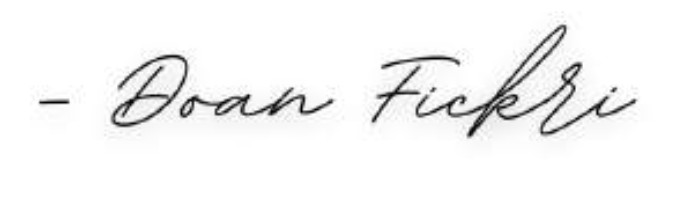
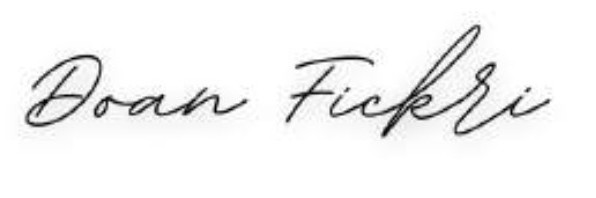
add new

Changed region(s): [[0.0302, 0.1212, 0.9362, 0.697]]

diff --git a/src/components/home/homeFitur.vue b/src/components/home/homeFitur.vue
@@ -1,12 +1,67 @@
 <template>
-  <div class="homefitur">
+  <div class="homefitur" id="karakter">
     <div class="container">
       <div class="row">
         <div class="col">
-          <h1 class="text-h4 text-weight-bold text-center">Karakter</h1>
+          <h1 class="text-h4 text-weight-bold text-center">Karakter Utama</h1>
         </div>
       </div>
       <div class="row">
+        <div class="col">
+          <div class="row">
+            <div class="col-4 q-pr-md">
+              <q-img src="/image/julfikar.webp" :ratio="1" class="shadow-6" />
+            </div>
+            <div class="col">
+              <h3 class="text-weight-medium text-h5 q-mt-none">
+                Putra Sopandi
+              </h3>
+              <p>Lelaki berumur 25 tahun yang berprofesi sebagai driver online, berperan sebagai tulang punggung keluarga setelah ditinggal ayahnya.</p>
+            </div>
+          </div>
+          <div class="row">
+            <div class="col-12">
+              <h3 class="text-weight-medium text-h5">Cast: Julfikar Maha Putra</h3>
+              <p>Aktor & Acting coach asal Bogor. Pernah terlibat di proyek musikal, video musik, film pendek dan feature film. Saat ini aktif sebagai asisten dosen di SAE indonesia</p>
+              <h3 class="text-weight-medium text-h5">Filmography</h3>
+              <p>Noda Ranjang Membekas - Flip Flop TV<br>
+                Kuburan Berjalan - Kumparan Plus<br>
+                Yok Shooting yok! - Table Two film<br>
+                What It Takes to Get a Shot - Mondiblanc Film Workshop<br>
+                Dan Bahagia - Hore besok libur<br>
+                Cinta yang berkah -Baznas TV<br>
+                Kuyang - Aenigma</p>
+            </div>
+          </div>
+        </div>
+        <div class="col">
+          <div class="row">
+            <div class="col-4 q-pr-md">
+              <q-img src="/image/agung.jpg" :ratio="1" class="shadow-6" />
+            </div>
+            <div class="col">
+              <h3 class="text-weight-medium text-h5 q-mt-none">
+                Agung Sopandi
+              </h3>
+              <p>Lelaki berumur 48 tahun yang berpura-pura mati untuk menghindar dari hutang, tanpa sadar keputusannya berdampak besar bagi keluarganya.</p>
+            </div>
+          </div>
+          <div class="row">
+            <div class="col-12">
+              <h3 class="text-weight-medium text-h5">Cast: Albaransyah Yusuf</h3>
+              <p>Berprofesi sebagai aktor sejak 2017, memerankan berbagai karakter di teater, film pendek dan series.</p>
+              <h3 class="text-weight-medium text-h5">Filmography</h3>
+              <p>Jurnal Risa (Series) - 2022<br>
+                Accidentally Intentional - 2022<br>
+                Coblos Yang Mana - 2022<br>
+                Resep Kebahagiaan - 2023<br>
+                Tanggal Selamat Tinggal - 2023
+              </p>
+            </div>
+          </div>
+        </div>
+      </div>
+      <!-- <div class="row">
         <div class="col-5 q-pa-md">
           <q-img src="/image/fizal.jpg" :ratio="1" class="shadow-6" />
         </div>
@@ -41,7 +96,7 @@
               Cinta yang berkah -Baznas TV<br>
               Kuyang - Aenigma</p>
         </div>
-      </div>
+      </div> -->
     </div>
   </div>
 </template>

diff --git a/src/components/home/homeReinforcement.vue b/src/components/home/homeReinforcement.vue
@@ -1,22 +1,22 @@
 <template>
-  <div class="homereinforcement">
+  <div class="homereinforcement" id="sutradara">
     <div class="container q-pt-lg">
-    <div class="cta text-center">
+    <div class="cta text-center q-pt-lg">
       <h1 class="text-weight-bold text-h1">Pernyataan Sutradara </h1>
     </div>
     <div class="row">
-      <div class="col">
+      <div class="col q-px-lg">
         <p>“Demi kamu, demi kalian, demi anak-anak, demi istri, demi keluarga”</p>
         <p>Dalam konteks yang serius, kata-kata ini jarang terucapkan oleh seorang ayah. Namun seringkali seorang anak merabanya melewati indikasi-indikasi dari setiap keputusan-keputusan yang mereka buat. Dalam semua keputusan yang diambil, kita selalui dihantui oleh pertanyaan “kenapa dia mengambil pilihan itu?”. Saya tidak pernah menemukan jawaban kongkritnya.</p>
           <p>Dalam proses pembuatan film ini, saya berusaha untuk menyelami ketidakharmonisan komunikasi antara dua generasi dalam satu keluarga yang sering kali terjadi.</p>
           <p>Saya ingin menunjukkan bahwa di balik setiap kata hal tidak diucapkan dan setiap kesalahpahaman, terdapat kerinduan mendalam untuk saling memahami dan dan keinginan untuk terhubung kembali.</p>
-          <p><q-img src="/public/image/statement.jpg" width="200px"/></p>
+          <p><q-img src="/image/statement.jpg" width="200px"/></p>
         <!-- <q-btn size="lg" color="dark" class="text-capitalize" to="/"
           >Baca Selengkapnya</q-btn
         >
  -->
       </div>
-      <div class="col">
+      <div class="col q-px-lg">
         <p>“Fatherless” adalah upaya saya untuk mewakili begitu banyak
         kawan dan kerabat yang mengalami masalah dengan Ayah dari
         sudut pandang anak laki - laki. Sebagai sutradara saya ingin
@@ -37,7 +37,7 @@
         menjadi lebih terbuka kepada keluarga kita.
       </p>
 
-          <p><q-img src="/public/image/mozes.webp" width="200px"/></p>
+          <p><q-img src="/image/mozes.webp" width="200px"/></p>
         <!-- <q-btn size="lg" color="dark" class="text-capitalize" to="/"
           >Baca Selengkapnya</q-btn
         > -->

diff --git a/src/components/master/globalHeader.vue b/src/components/master/globalHeader.vue
@@ -28,19 +28,19 @@
                 exact
                 class="text-capitalize"
                 label="Sinopsis"
-                to="/"
+                href="#sinopsis"
               />
               <q-route-tab
                 exact
                 class="text-capitalize"
-                label="Cast"
-                to="/"
+                label="Karakter"
+                href="#karakter"
               />
               <q-route-tab
                 exact
                 class="text-capitalize"
                 label="Pernyataan Sutradara"
-                to="/"
+                href="#sutradara"
               />
               <q-route-tab
                 exact

diff --git a/src/css/app.scss b/src/css/app.scss
@@ -1,7 +1,10 @@
 // app global css in SCSS form
 
+@import url('https://fonts.googleapis.com/css2?family=Puritan:ital,wght@0,400;0,700;1,400;1,700&display=swap');
+
 * {
-  font-family: "Lato", sans-serif;
+  font-family: "Puritan", sans-serif;
+
 }
 .content p {
   font-size: 18px;
@@ -75,10 +78,6 @@
   filter:none;
 }
 
-.homefitur {
-  max-width: 900px;
-  margin: 0 auto 0;
-}
 
 .homefitur p {
   font-size: 18px;
@@ -98,6 +97,10 @@
   margin: 0 auto 0;
   padding: 100px 0 30px;
 
+}
+
+.hometentang p {
+  text-align: justify;
 }
 
 .homereinforcement {

diff --git a/src/components/home/homeHero.vue b/src/components/home/homeHero.vue
@@ -7,7 +7,7 @@
       <p class="text-subtitle1">
         Driver online bertemu penumpang yang ternyata adalah ayahnya yang telah lama mati, lalu mencoba mengajaknya kembali pulang bersama keluarga
       </p>
-      <q-btn size="lg" color="dark" class="text-capitalize fth_herocta" to="/"
+      <q-btn size="lg" color="dark" class="text-capitalize fth_herocta" href="#sinopsis"
         >Baca Sinopsis</q-btn
       >
     </div>

diff --git a/src/components/master/globalFooter.vue b/src/components/master/globalFooter.vue
@@ -2,7 +2,7 @@
   <div class="footer">
     <div class="row nav container">
       <div class="col">
-        <h1 class="text-uppercase text-h5 text-weight-bold">xxxxxxx.id</h1>
+        <h1 class="text-uppercase text-h5 text-weight-bold">Fatherless</h1>
         <div class="socialmedia">
           <ul>
             <li>

diff --git a/src/components/home/homeTentang.vue b/src/components/home/homeTentang.vue
@@ -1,5 +1,5 @@
 <template>
-  <div class="hometentang">
+  <div class="hometentang" id="sinopsis">
     <div class="row container">
       <div class="col q-pr-xl">
         <h1 class="text-h4 text-weight-bold">Sinopsis</h1>
